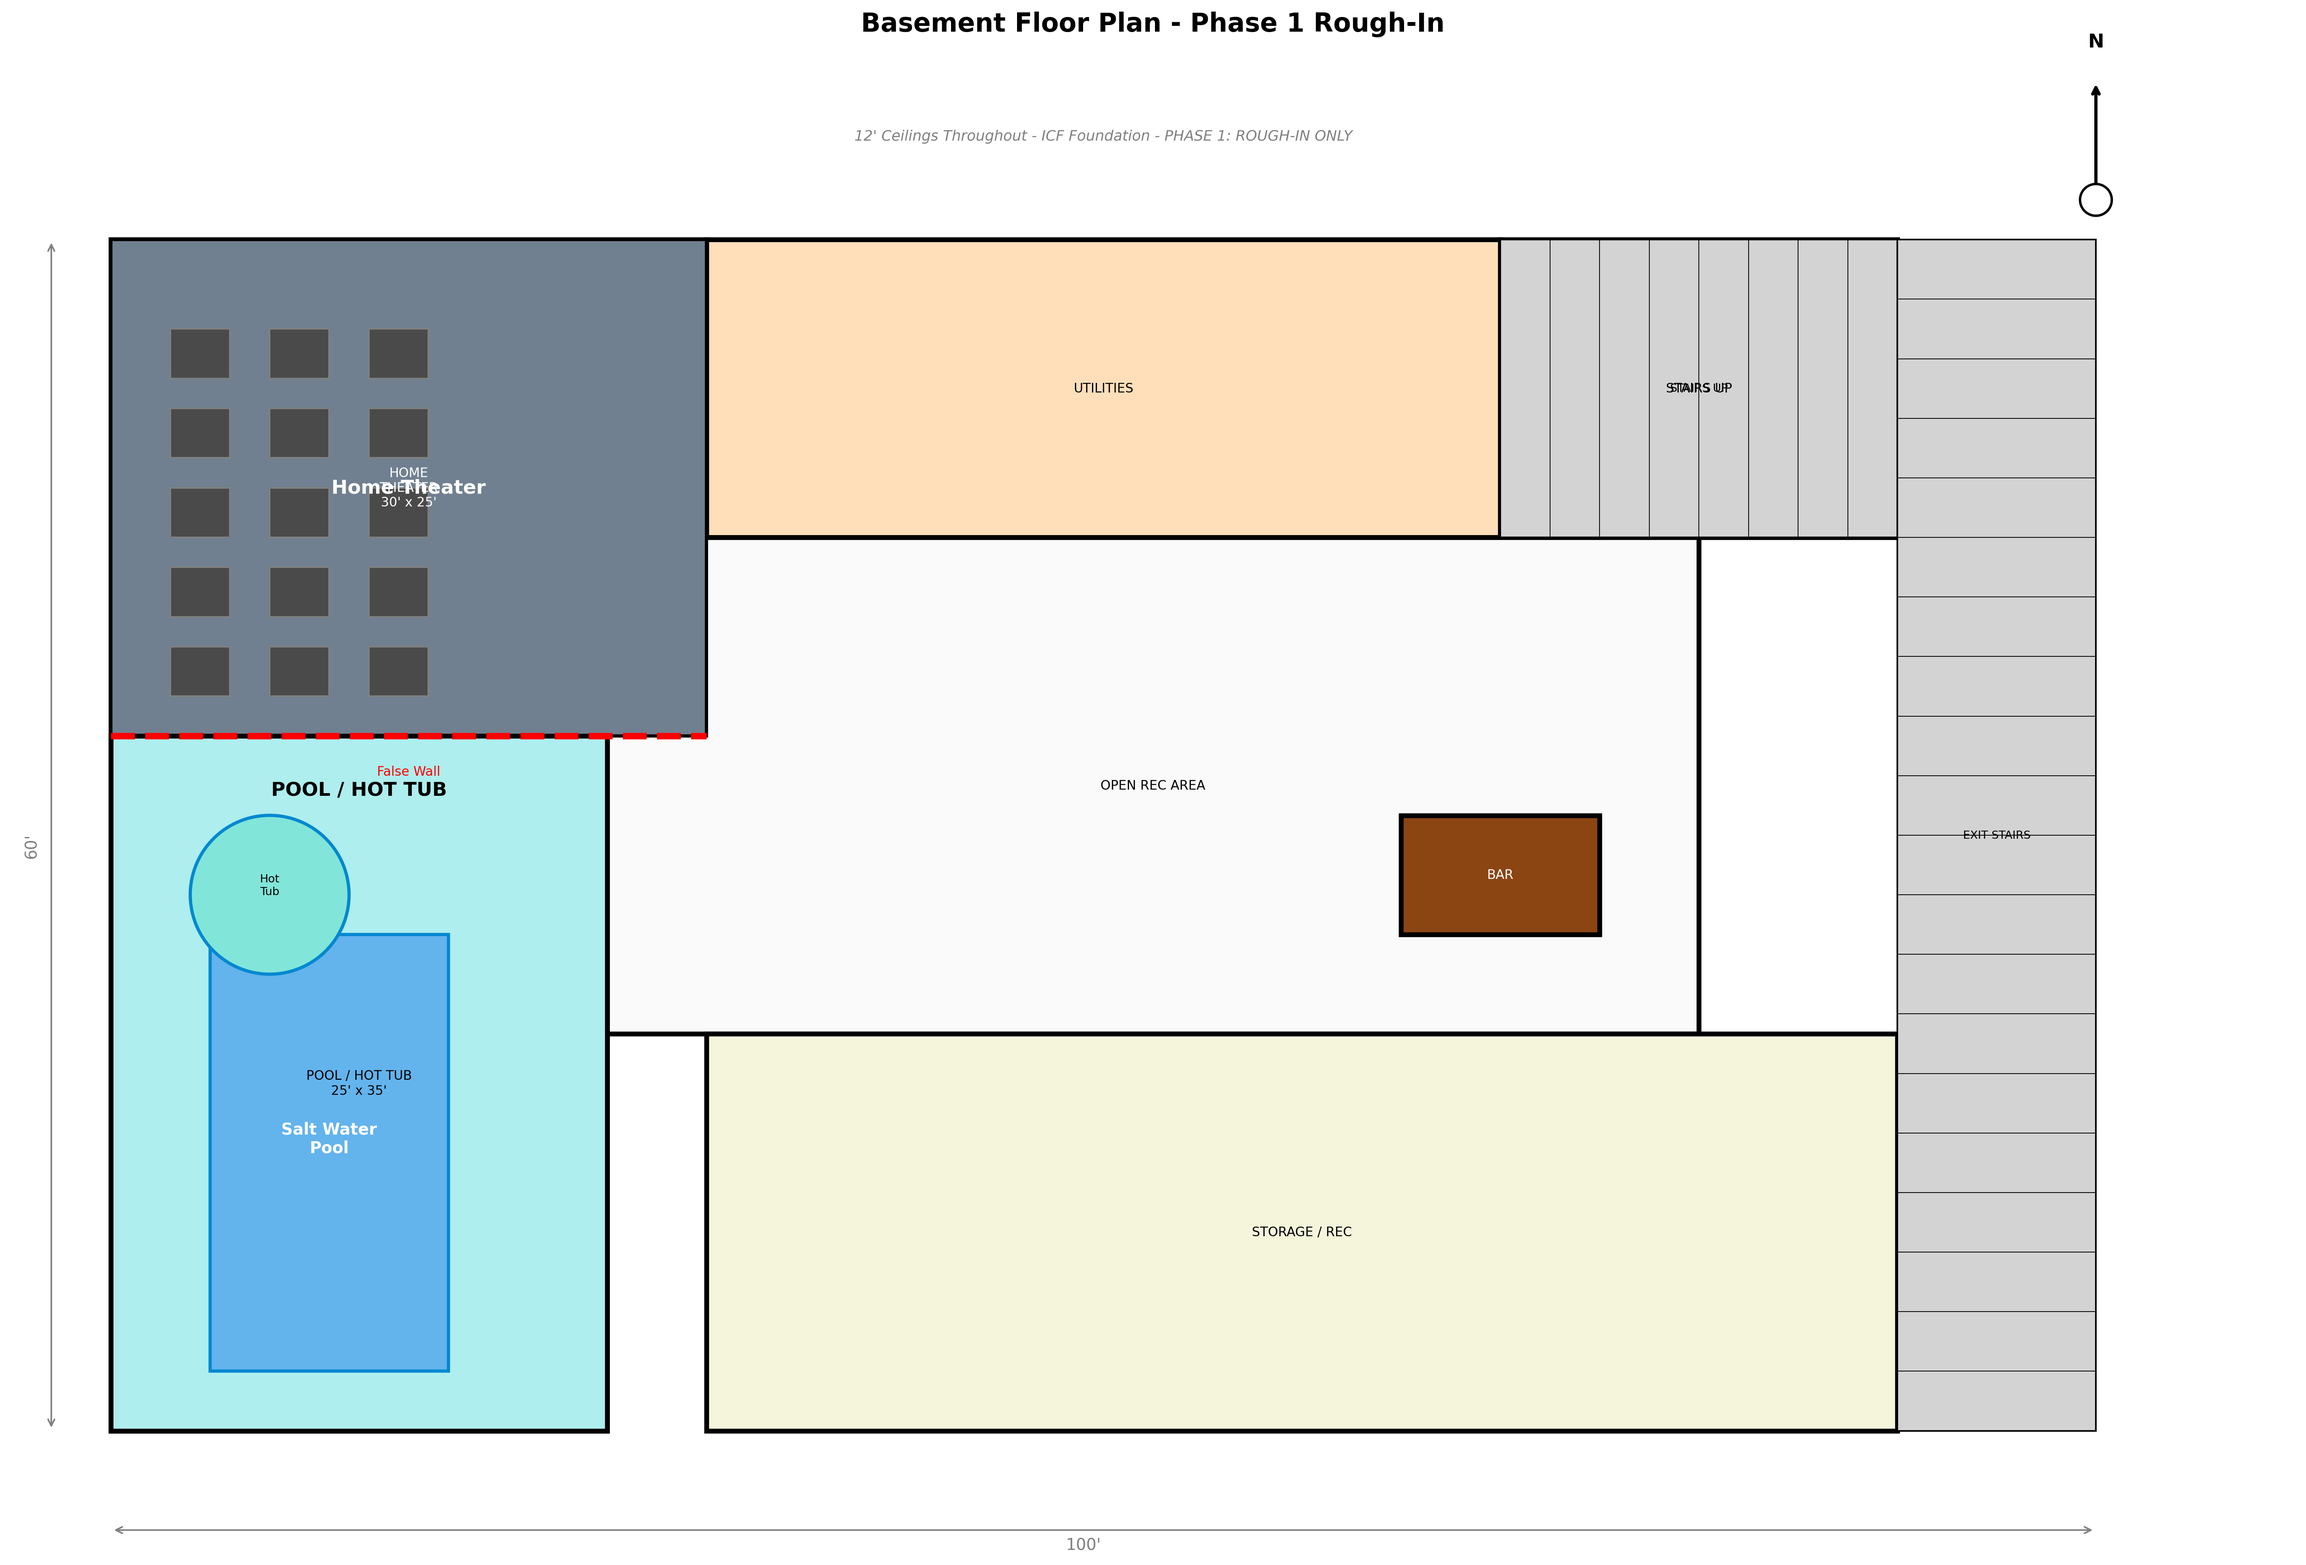
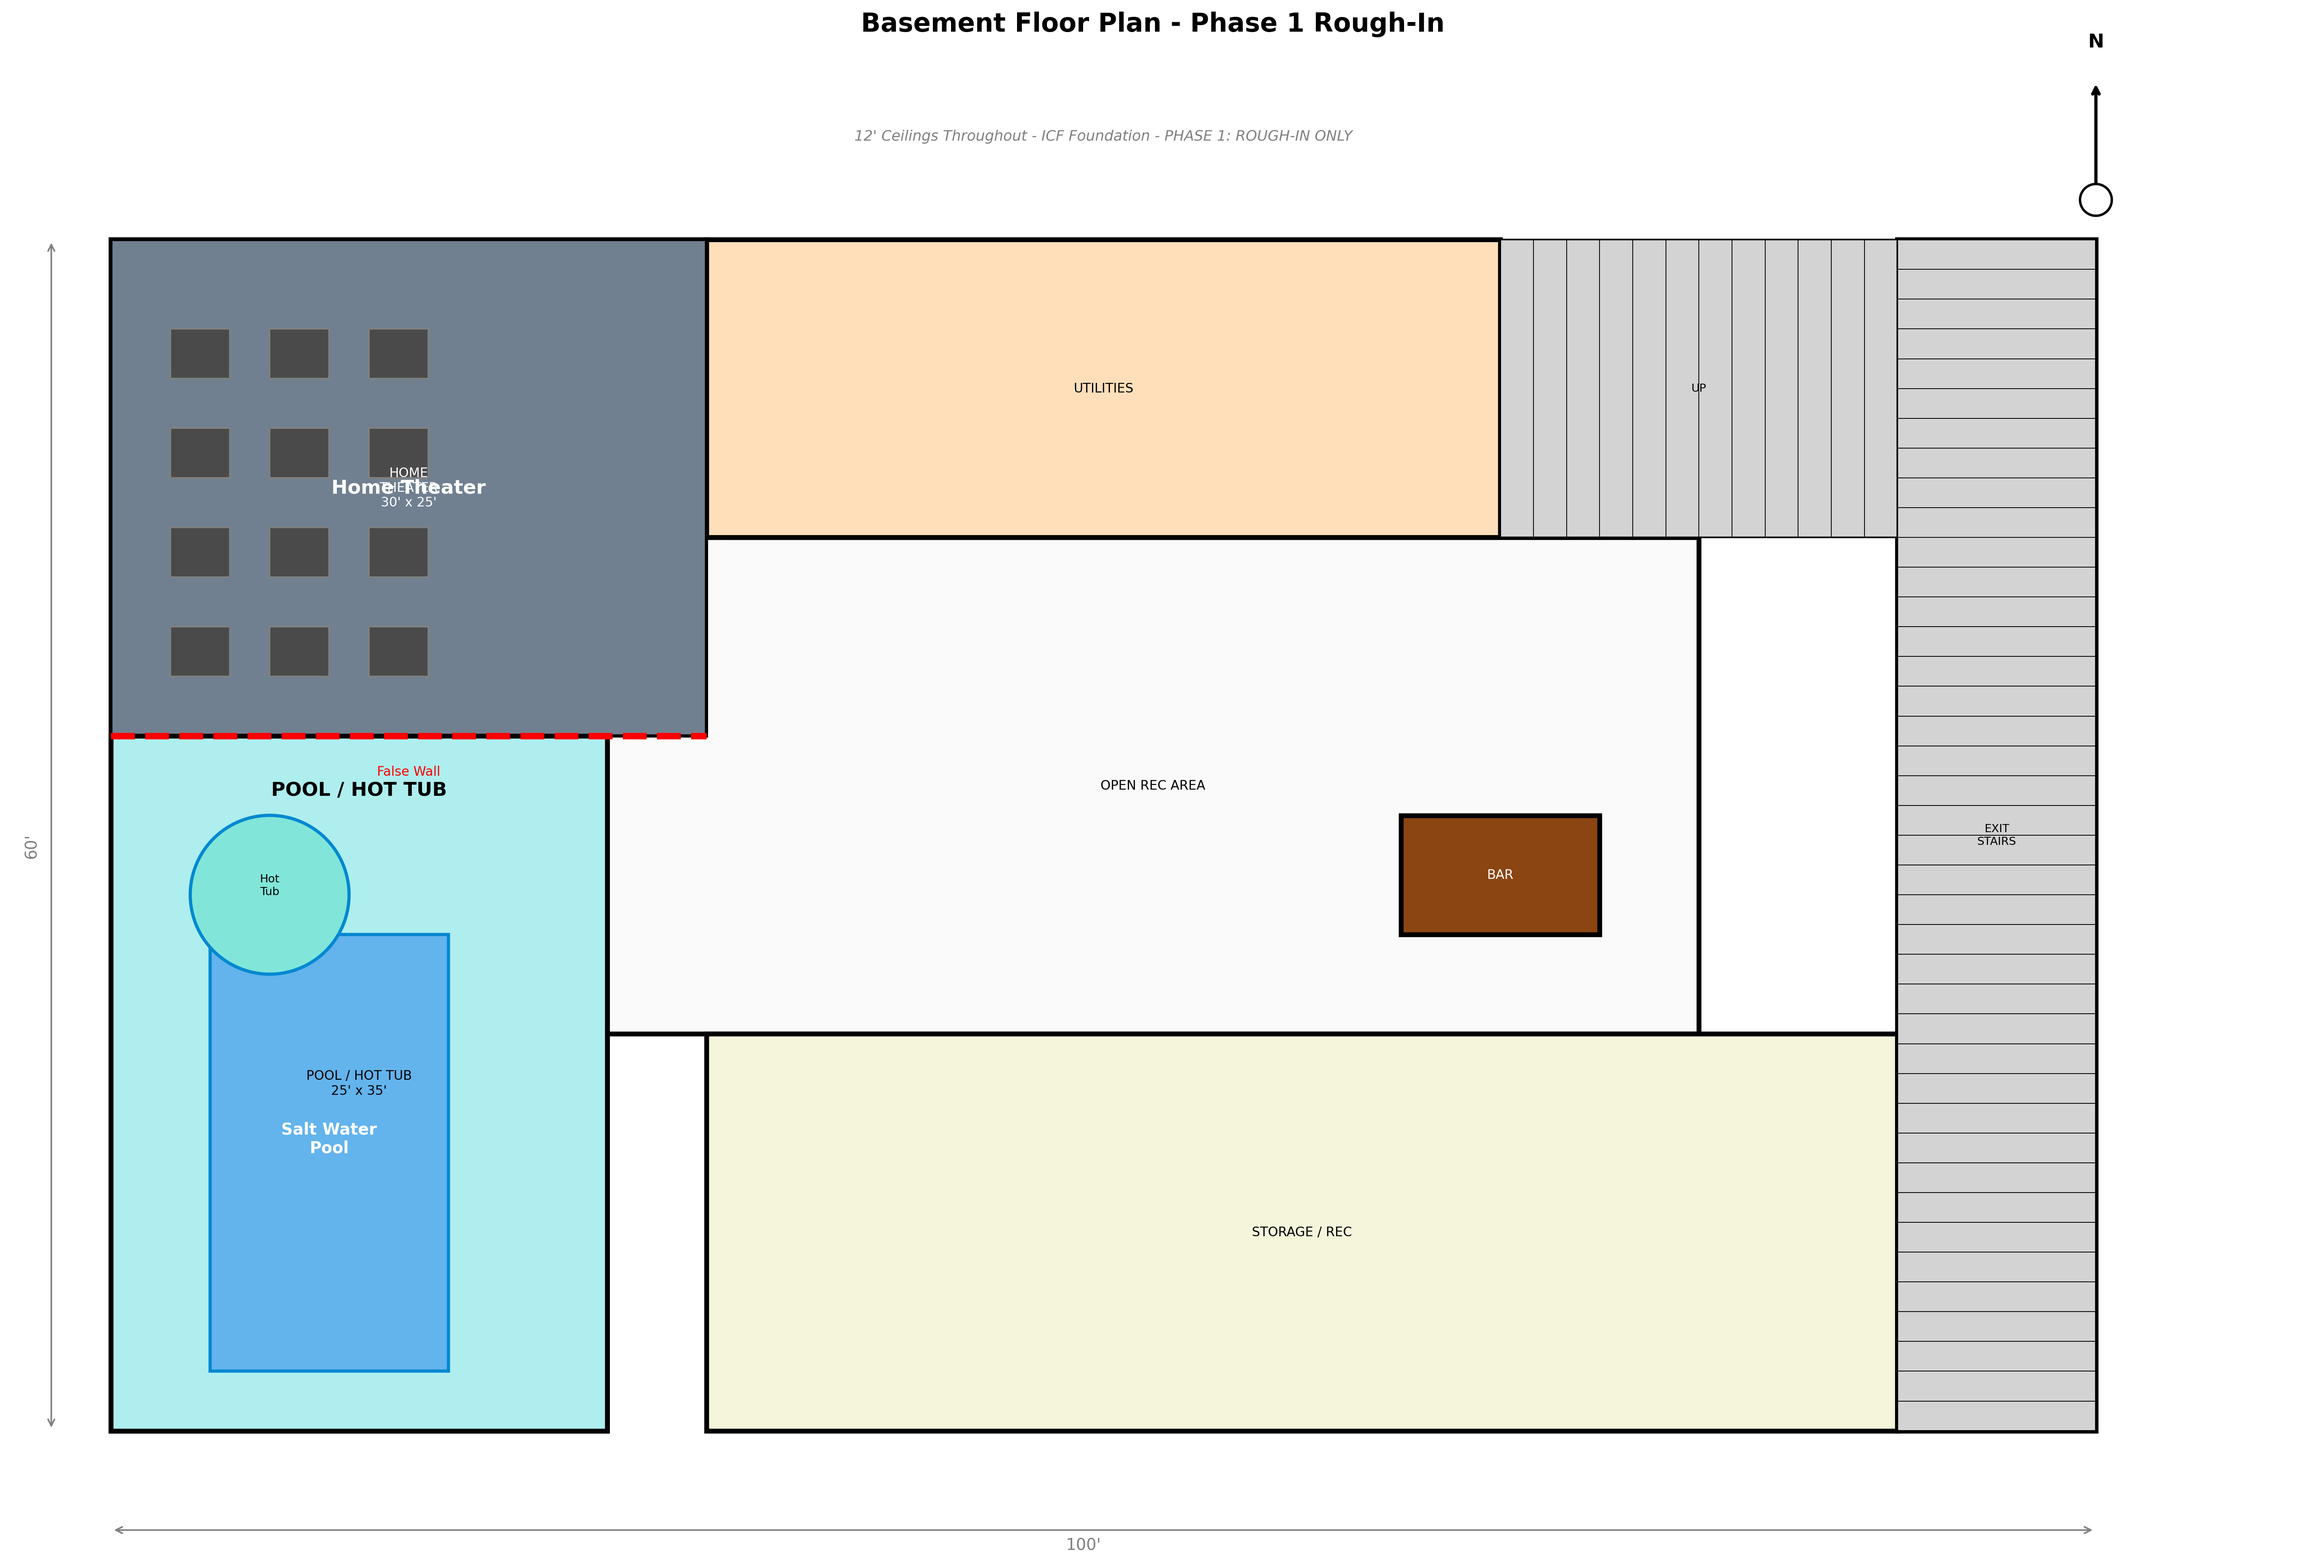
Update Floorplan Layout and Validation

Changed region(s): [[0.0623, 0.2488, 0.1869, 0.4666]]

diff --git a/src/utilities.py b/src/utilities.py
@@ -313,7 +313,9 @@ def resolve_color(color_name: str, config: DrawingConfig | None = None) -> str:
     return config.get_color(color_name)
 
 
-def update_colors(new_colors: dict[str, str], config: DrawingConfig | None = None) -> None:
+def update_colors(
+    new_colors: dict[str, str], config: DrawingConfig | None = None
+) -> None:
     """Update the colors dictionary with new colors."""
     if config is None:
         config = _default_config
@@ -646,7 +648,8 @@ def normalize_room_positions(rooms: list[dict]) -> list[dict]:
     min_x, min_y, _, _ = get_bounding_box(rooms)
 
     return [
-        {**room, "x": room.get("x", 0) - min_x, "y": room.get("y", 0) - min_y} for room in rooms
+        {**room, "x": room.get("x", 0) - min_x, "y": room.get("y", 0) - min_y}
+        for room in rooms
     ]
 
 
@@ -684,10 +687,16 @@ def validate_config(config: dict[str, Any]) -> list[str]:
     # Check for invalid grid_spacing before normalization
     raw_grid_spacing = settings.get("grid_spacing")
     if raw_grid_spacing is not None and raw_grid_spacing <= 0:
-        warnings.append(f"Invalid grid_spacing value {raw_grid_spacing}, will be normalized to 10")
+        warnings.append(
+            f"Invalid grid_spacing value {raw_grid_spacing}, will be normalized to 10"
+        )
 
     floor_settings = FloorPlanSettings(
-        **{k: v for k, v in settings.items() if k in FloorPlanSettings.__dataclass_fields__}
+        **{
+            k: v
+            for k, v in settings.items()
+            if k in FloorPlanSettings.__dataclass_fields__
+        }
     )
     warnings.extend(floor_settings.validate())
 
@@ -718,7 +727,9 @@ def _validate_rooms(rooms_data: list[dict], floor_name: str) -> list[str]:
             missing = [f for f in required if f not in room_data]
             if missing:
                 label = room_data.get("label", f"Room {i}")
-                warnings.append(f"{floor_name}: '{label}' missing required fields: {missing}")
+                warnings.append(
+                    f"{floor_name}: '{label}' missing required fields: {missing}"
+                )
                 continue
 
             # Check for invalid dimensions before Room normalization
@@ -727,9 +738,42 @@ def _validate_rooms(rooms_data: list[dict], floor_name: str) -> list[str]:
             label = room_data.get("label", f"Room {i}")
 
             if raw_width <= 0:
-                warnings.append(f"{floor_name}: '{label}' has invalid width {raw_width}")
+                warnings.append(
+                    f"{floor_name}: '{label}' has invalid width {raw_width}"
+                )
             if raw_height <= 0:
-                warnings.append(f"{floor_name}: '{label}' has invalid height {raw_height}")
+                warnings.append(
+                    f"{floor_name}: '{label}' has invalid height {raw_height}"
+                )
+
+            # Warn on unrealistically narrow/short rooms (< 5')
+            # Exempt hallways, corridors, stairs, and closets — these are
+            # legitimately narrow by design.
+            _exempt_patterns = (
+                "hall",
+                "corridor",
+                "stair",
+                "closet",
+                "wic",
+                "passage",
+                "vestibule",
+                "alcove",
+            )
+            _label_lower = label.lower().strip()
+            _exempt = _label_lower == "" or any(
+                p in _label_lower for p in _exempt_patterns
+            )
+            if not _exempt:
+                if 0 < raw_width < 5:
+                    warnings.append(
+                        f"{floor_name}: '{label}' is only {raw_width}' wide"
+                        " — minimum functional room width is 5'"
+                    )
+                if 0 < raw_height < 5:
+                    warnings.append(
+                        f"{floor_name}: '{label}' is only {raw_height}' deep"
+                        " — minimum functional room depth is 5'"
+                    )
 
             room = Room(
                 x=room_data.get("x", 0),
@@ -757,16 +801,32 @@ def _check_room_overlaps(rooms_data: list[dict], floor_name: str) -> list[str]:
             # Check if rooms overlap significantly (more than 50% of smaller room)
             x_overlap = max(
                 0,
-                min(r1["x"] + r1["width"], r2["x"] + r2["width"]) - max(r1["x"], r2["x"]),
+                min(r1["x"] + r1["width"], r2["x"] + r2["width"])
+                - max(r1["x"], r2["x"]),
             )
             y_overlap = max(
                 0,
-                min(r1["y"] + r1["height"], r2["y"] + r2["height"]) - max(r1["y"], r2["y"]),
+                min(r1["y"] + r1["height"], r2["y"] + r2["height"])
+                - max(r1["y"], r2["y"]),
             )
             overlap_area = x_overlap * y_overlap
 
             min_area = min(r1["width"] * r1["height"], r2["width"] * r2["height"])
             if min_area > 0 and overlap_area / min_area > 0.5:
+                # Skip warning when the smaller room is fully contained
+                # within the larger one — this is intentional nesting
+                # (e.g. a Bar feature inside an Open Rec Area).
+                def _contains(outer: dict, inner: dict) -> bool:
+                    return (
+                        outer["x"] <= inner["x"]
+                        and outer["y"] <= inner["y"]
+                        and outer["x"] + outer["width"] >= inner["x"] + inner["width"]
+                        and outer["y"] + outer["height"] >= inner["y"] + inner["height"]
+                    )
+
+                if _contains(r1, r2) or _contains(r2, r1):
+                    continue
+
                 label1 = r1.get("label", f"Room {i}")
                 label2 = r2.get("label", f"Room {j}")
                 warnings.append(
